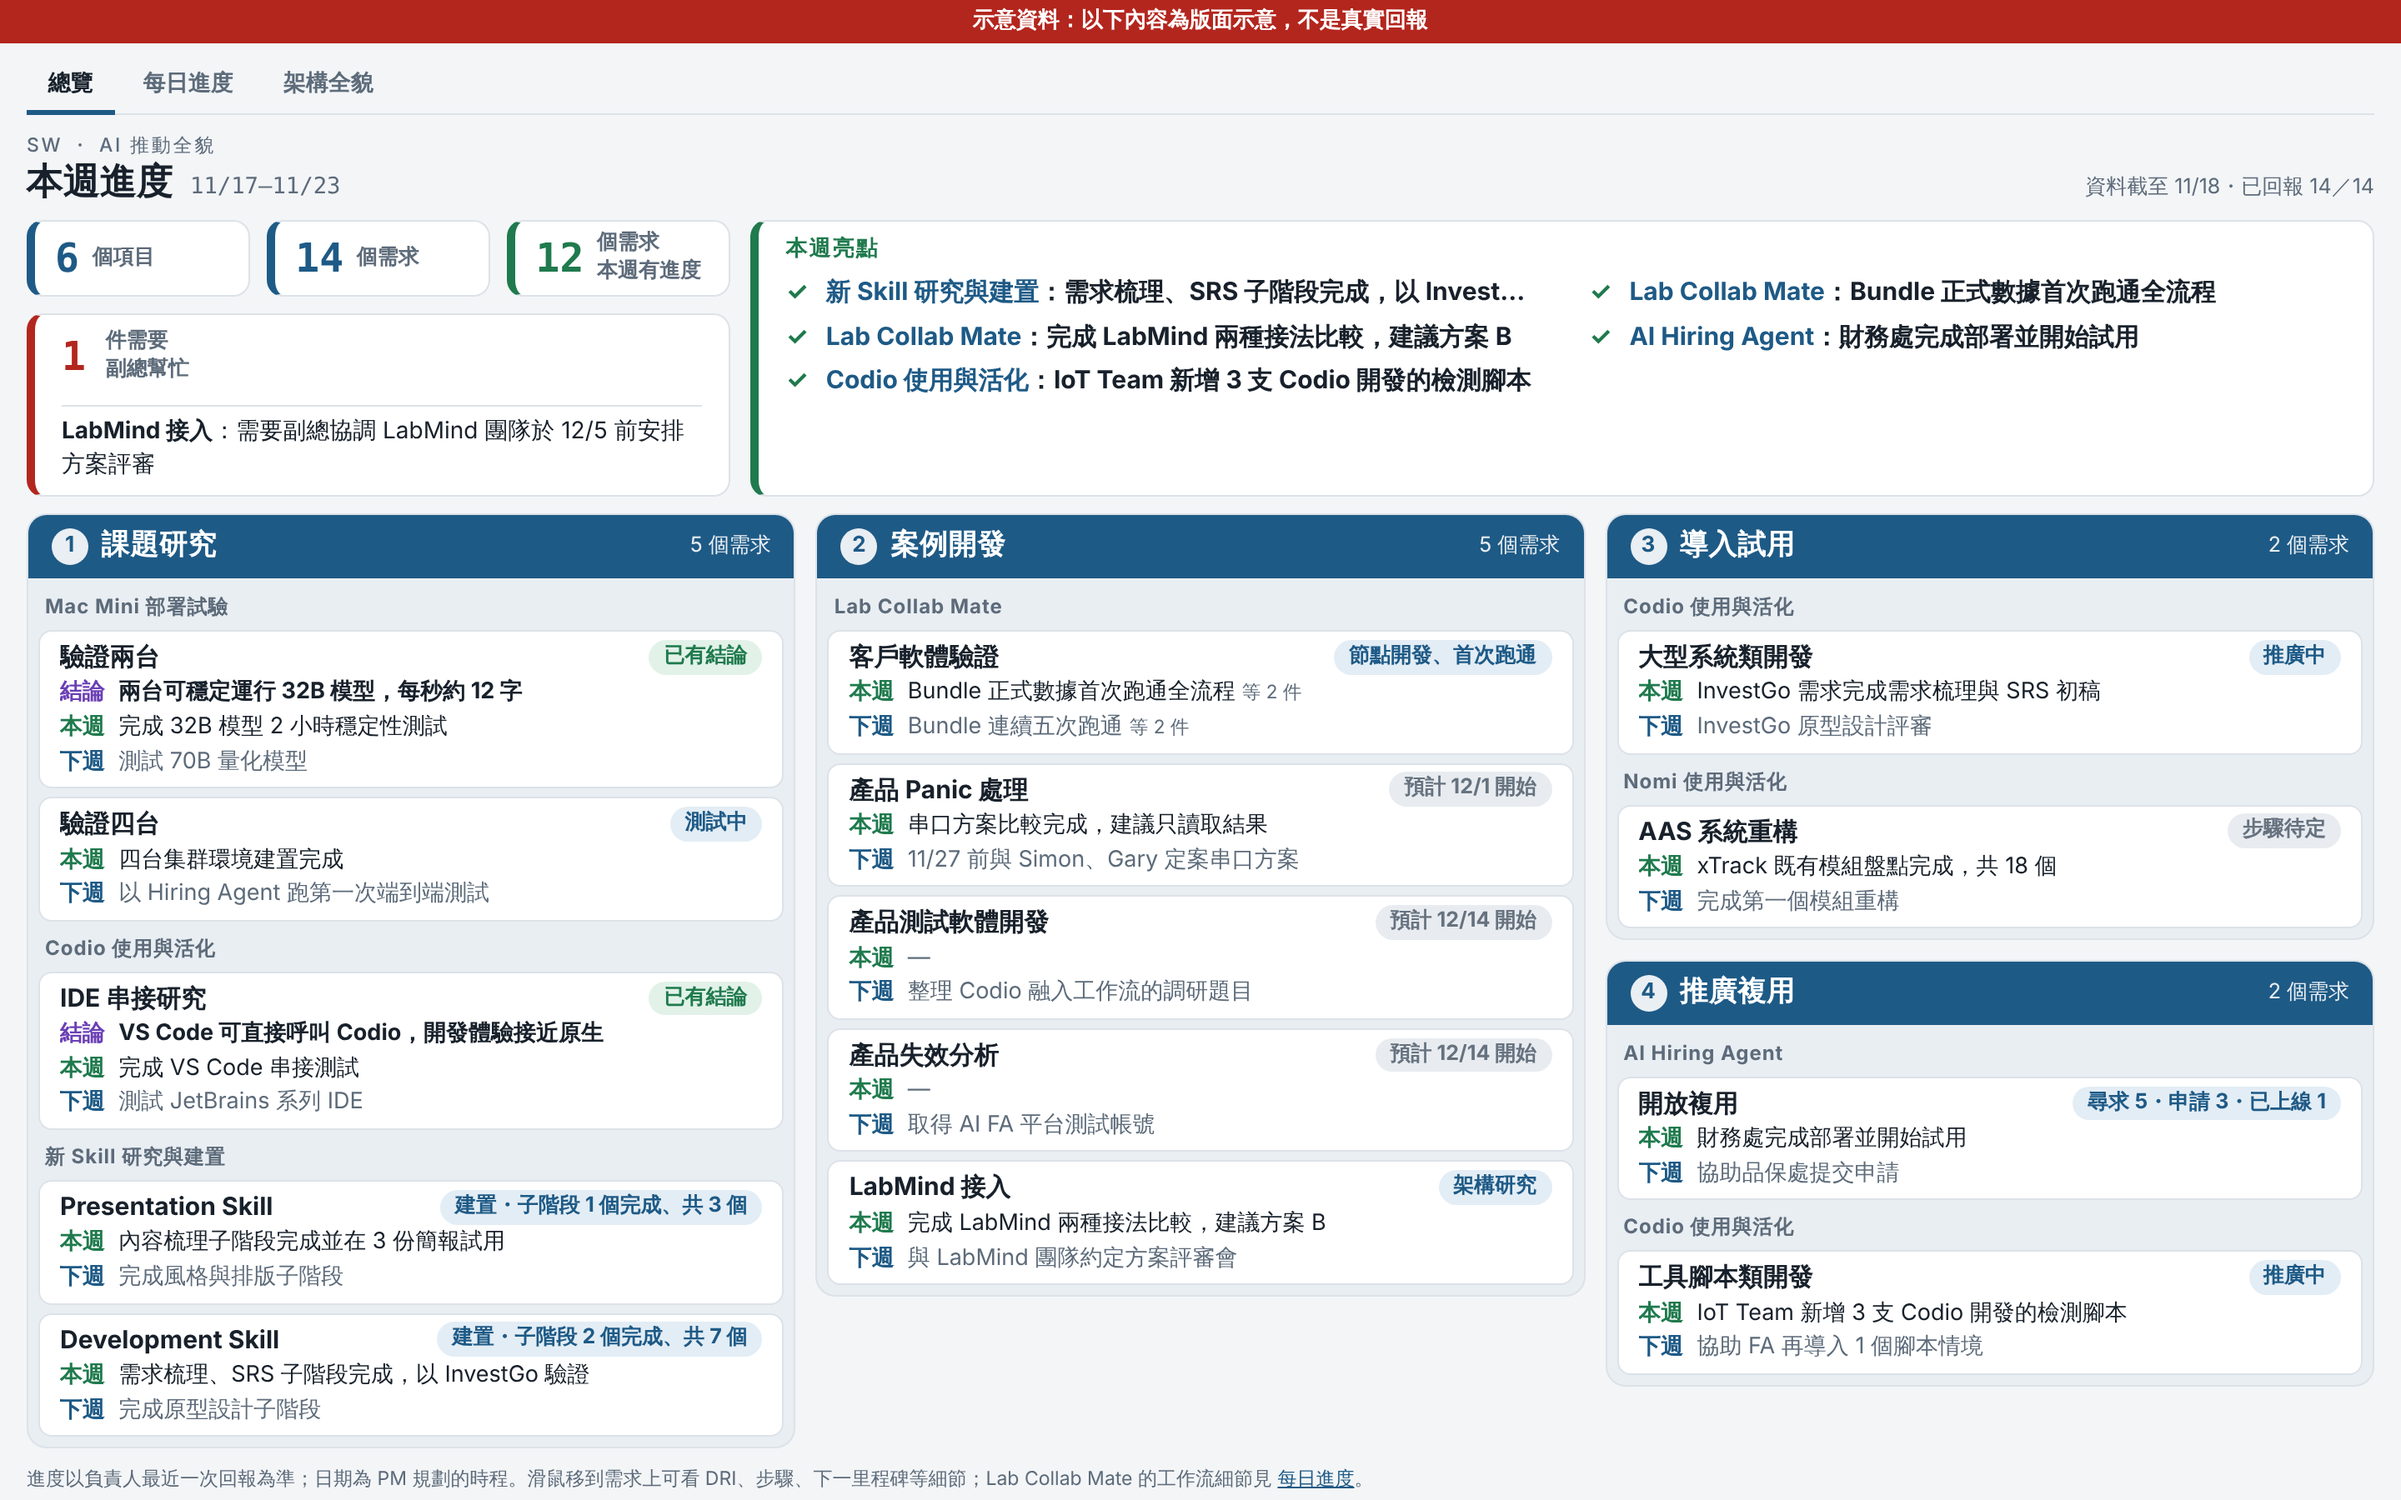
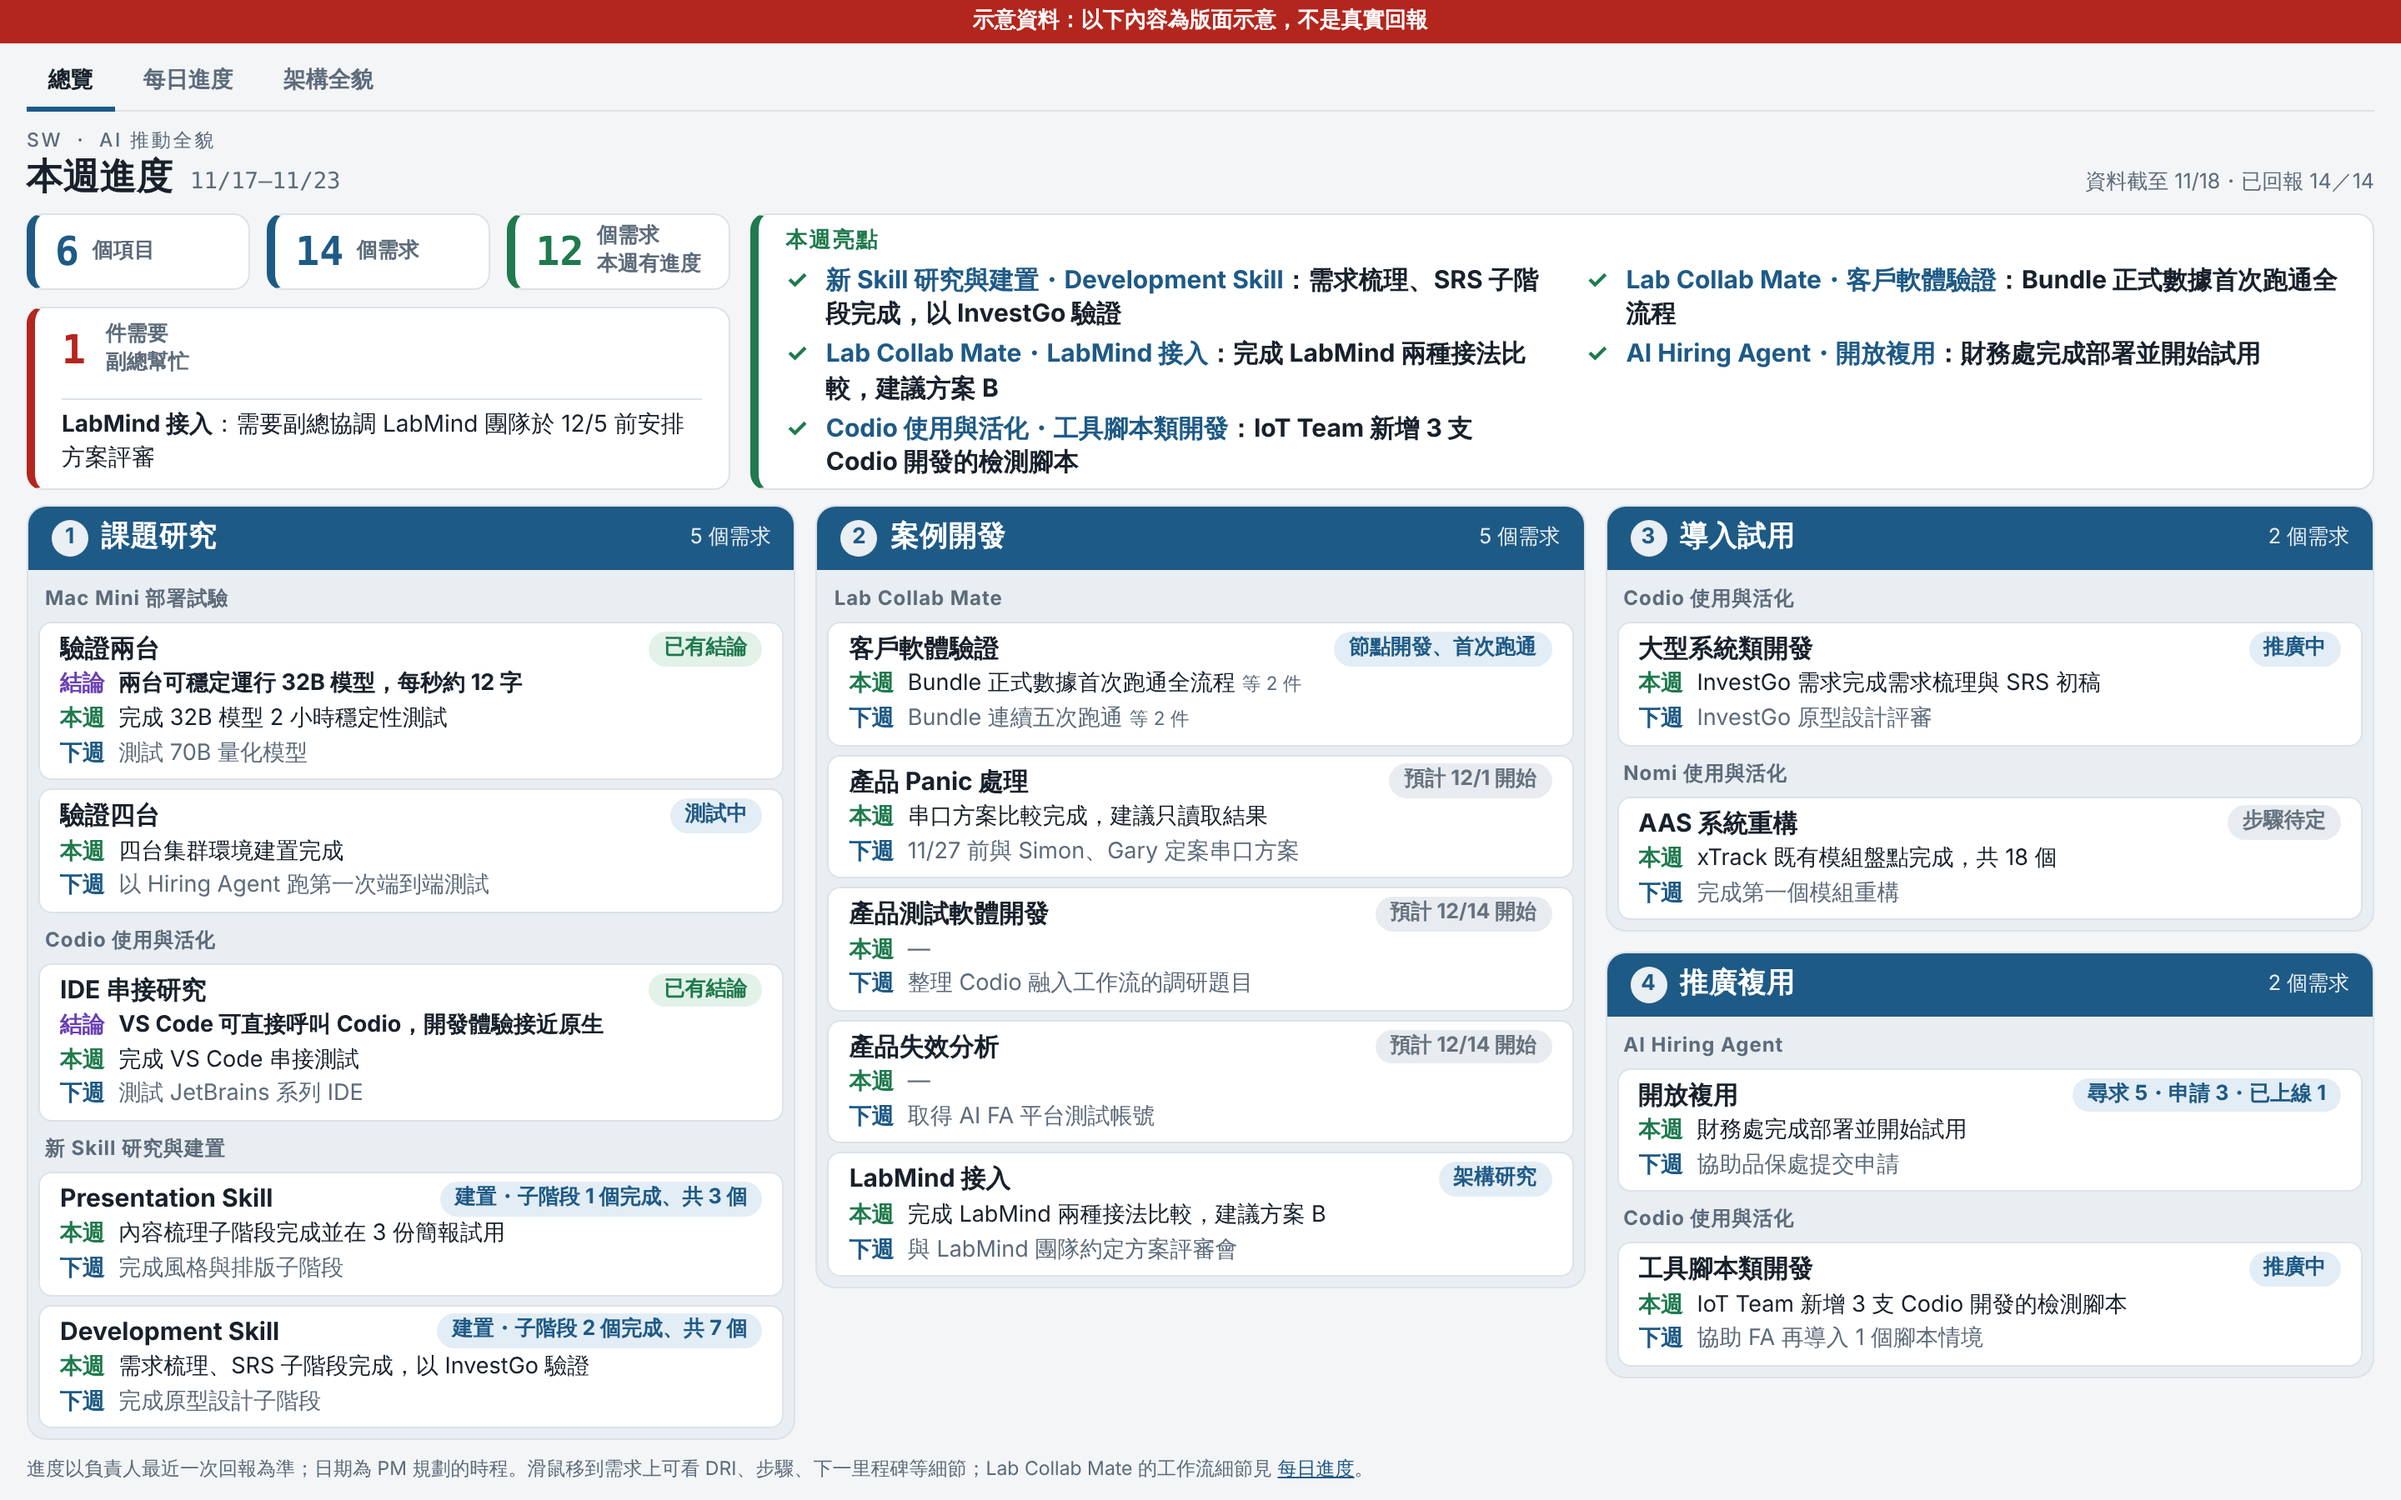
[2026-11-17_overview-redesign] 亮點寫明項目・需求並可換兩行；新增三種風格示意（簡報一頁式／現代卡片／深色）
Claude-Session: https://claude.ai/code/session_01Cd6Gft6mTX8zcMZinAmXya

diff --git a/public/index.html b/public/index.html
@@ -67,11 +67,11 @@ h1 .mono{font-family:var(--f-mono);font-size:.62em;color:var(--muted);font-weigh
 .kpi.help{grid-column:1 / -1;flex-wrap:wrap;row-gap:4px;align-content:flex-start;padding:8px 16px;gap:12px}
 .kpi.help .d{flex-basis:100%;font-size:14px;line-height:1.45;border-top:1px solid var(--line);padding-top:5px}
 
-/* 本週亮點：「項目名稱：進度亮點」一行一件 */
+/* 本週亮點：「項目・需求：進度亮點」，一行寫不完換第二行，不截斷 */
 .hl{background:var(--surface);border:1px solid var(--line);border-left:5px solid var(--ok);border-radius:10px;padding:9px 16px 10px;min-width:0}
 .hl h2{font-size:13px;letter-spacing:.08em;color:var(--ok);font-weight:700;margin-bottom:6px}
 .hl ul{list-style:none;margin:0;padding:0;display:grid;grid-template-columns:repeat(2,minmax(0,1fr));gap:8px 28px}
-.hl li{font-size:16px;font-weight:700;line-height:1.45;padding-left:24px;position:relative;white-space:nowrap;overflow:hidden;text-overflow:ellipsis}
+.hl li{font-size:16px;font-weight:700;line-height:1.45;padding-left:24px;position:relative}
 .hl li::before{content:"✓";position:absolute;left:0;color:var(--ok)}
 .hl li .p{color:var(--accent)}
 .hl .empty{font-size:14px;color:var(--muted)}
@@ -108,14 +108,15 @@ footer a{color:var(--accent)}
 
 /* 矮螢幕（如筆電 1440×900）再壓縮，維持單屏 */
 @media (min-width:901px) and (max-height:960px){
-  .page{gap:10px;padding-block:8px 10px}
+  .page{gap:9px;padding-block:6px 8px}
   h1{font-size:22px}
   .kpi{padding:5px 12px}
   .kpi > b{font-size:24px}
-  .hl{padding:7px 16px 8px}
+  .hl{padding:6px 16px 6px}
   .hl h2{margin-bottom:4px}
-  .hl li{font-size:15px}
-  .hl ul{gap:5px 28px}
+  .hl li{font-size:15px;line-height:1.35}
+  .hl ul{gap:4px 24px}
+  .hl h2{margin-bottom:3px}
   .board,.col{gap:12px}
   .mod > header{padding:6px 14px}
   .mbody{padding:6px;gap:5px}
@@ -127,7 +128,7 @@ footer a{color:var(--accent)}
 @media (max-width:760px){
   .board{grid-template-columns:1fr}
   .hl ul{grid-template-columns:1fr}
-  .hl li,.ln{white-space:normal}
+  .ln{white-space:normal}
 }
 </style>
 </head>
@@ -228,12 +229,12 @@ $("kpis").innerHTML =
   kpi(helps.length ? "--bad" : "--idle", helps.length, "件需要<br>副總幫忙",
       helps.length ? helps.map(r => `<div><b>${esc(r.name)}</b>：${esc(r.rep.help)}</div>`).join("") : `<div class="dim">本週沒有需要副總幫忙的事項</div>`, "help");
 
-/* 本週亮點：「項目名稱：進度亮點」。回報中標記 hl 的完成事項；沒標記時取各需求第一件，最多 6 件 */
+/* 本週亮點：「項目・需求：進度亮點」。回報中標記 hl 的完成事項；沒標記時取各需求第一件，最多 6 件 */
 let hls = reported.flatMap(r => (r.rep.hl || []).map(i => [r.rep.done[i], r]));
 if (!hls.length) hls = reported.filter(r => (r.rep.done || []).length).map(r => [r.rep.done[0], r]);
 hls = hls.slice(0, 6);
 $("hl").innerHTML = hls.length
-  ? `<ul>${hls.map(([t, r]) => `<li title="${esc(r.proj)}：${esc(t)}"><span class="p">${esc(r.proj)}</span>：${esc(t)}</li>`).join("")}</ul>`
+  ? `<ul>${hls.map(([t, r]) => `<li><span class="p">${esc(r.proj)}・${esc(r.name)}</span>：${esc(t)}</li>`).join("")}</ul>`
   : `<div class="empty">本週回報彙整中；負責人回覆後，這裡會列出本週最重要的完成事項。</div>`;
 
 /* 需求狀態標籤：一個詞說清楚現在在哪 */
@@ -280,7 +281,7 @@ function reqHTML(r){
 function modHTML(m){
   let html = "", proj = null;
   m.reqs.forEach(r => { if (r.proj !== proj) { proj = r.proj; html += `<h4 class="proj">${esc(proj)}</h4>`; } html += reqHTML(r); });
-  return `<section class="mod"><header><h3><span class="no">${m.no.replace(/[①②③④]/, c => "①②③④".indexOf(c) + 1)}</span>${esc(m.name)}</h3><span>${m.reqs.length} 個需求</span></header><div class="mbody">${html}</div></section>`;
+  return `<section class="mod" data-m="${MODULES.indexOf(m) + 1}"><header><h3><span class="no">${m.no.replace(/[①②③④]/, c => "①②③④".indexOf(c) + 1)}</span>${esc(m.name)}</h3><span>${m.reqs.length} 個需求</span></header><div class="mbody">${html}</div></section>`;
 }
 $("board").innerHTML = [0, 1, 2].map(c => `<div class="col">${MODULES.filter(m => m.col === c).map(modHTML).join("")}</div>`).join("");
 </script>

diff --git a/work/2026-11-17_overview-redesign/outputs/src/styles/a-report.css b/work/2026-11-17_overview-redesign/outputs/src/styles/a-report.css
@@ -1,0 +1,27 @@
+/* 風格 A｜簡報一頁式：白底、細線分隔、襯線標題，幾乎不用色塊，靠留白與字級分層 */
+:root{--bg:#FFFFFF;--panel:#FFFFFF;--line:#E3E6EA;--accent:#1B3A5C;--accent-soft:#EEF2F6}
+body{background:#FFFFFF}
+h1{font-size:28px}
+.kpi{background:none;border:0;border-left:1px solid var(--line);border-radius:0;padding:2px 14px}
+.kpi:first-child{border-left:0;padding-left:0}
+.kpi > b{font-family:var(--f-display);font-weight:700;color:var(--fg)}
+.kpi.help{border:0;border-top:1px solid var(--line);padding:6px 0 0;border-radius:0}
+.kpi.help > b{color:var(--bad)}
+.hl{border:0;border-left:3px solid var(--fg);border-radius:0;padding:2px 0 2px 18px;background:none}
+.hl h2{color:var(--fg);letter-spacing:.14em}
+.hl li::before{color:var(--fg)}
+.hl li .p{color:var(--accent)}
+.board{gap:28px}
+.col{gap:22px}
+.mod{background:none;border:0;border-radius:0;overflow:visible}
+.mod > header{background:none;color:var(--fg);padding:0 0 6px;border-bottom:2px solid var(--fg)}
+.mod h3{font-family:var(--f-display);font-size:19px}
+.mod h3 .no{background:var(--fg);color:#FFF;width:24px;height:24px}
+.mod > header span{color:var(--muted)}
+.mbody{padding:4px 0 0;gap:0}
+.proj{padding:8px 0 2px;color:var(--accent);letter-spacing:.06em}
+.req{background:none;border:0;border-radius:0;border-bottom:1px solid var(--line);padding:6px 0 7px}
+.pill{background:none;border:1px solid currentColor;padding:0 8px}
+.pill.idle{background:none}
+.pill.ok{background:none}
+@media (prefers-color-scheme: dark){:root:not([data-theme="light"]){--bg:#11161C;--panel:#11161C}body{background:#11161C}.mod h3 .no{color:#11161C}}

diff --git a/work/2026-11-17_overview-redesign/outputs/src/mock_overview.js b/work/2026-11-17_overview-redesign/outputs/src/mock_overview.js
@@ -4,7 +4,7 @@
 const { chromium } = require('playwright');
 const fs = require('fs');
 const path = require('path');
-const [root, out] = process.argv.slice(2);
+const [root, out, cssPath] = process.argv.slice(2);  // cssPath（選填）：風格示意用的覆寫樣式
 const src = fs.readFileSync(path.resolve(root, 'public', 'index.html'), 'utf8');
 
 const SAMPLE = {
@@ -32,11 +32,12 @@ MODULES.forEach(p => p.reqs.forEach(r => { if (__S[r.name]) r.rep = __S[r.name];
 const banner = '<div style="background:#B3261E;color:#fff;font-weight:700;text-align:center;font-size:13px;padding:3px 0">示意資料：以下內容為版面示意，不是真實回報</div>';
 const html = src.replace('/* ===== 計算與呈現 ===== */', inject).replace('<div class="page">', banner + '<div class="page">');
 if (!html.includes('示意資料：')) throw new Error('示意橫條沒有插入成功');
+const styled = cssPath ? html.replace('</style>', fs.readFileSync(cssPath, 'utf8') + '\n</style>') : html;
 
 (async () => {
   const b = await chromium.launch();
   const p = await b.newPage({ viewport: { width: 1440, height: 900 }, deviceScaleFactor: 2 });
-  await p.setContent(html);
+  await p.setContent(styled);
   await p.waitForTimeout(300);
   const sh = await p.evaluate(() => document.documentElement.scrollHeight);
   console.log(`示意版 1440x900 scrollHeight=${sh}（含示意橫條 約 25px）`);

diff --git a/work/2026-11-17_overview-redesign/outputs/src/styles/b-cards.css b/work/2026-11-17_overview-redesign/outputs/src/styles/b-cards.css
@@ -1,0 +1,22 @@
+/* 風格 B｜現代卡片：淺陰影、圓角，四個模塊各有自己的顏色 */
+:root{--bg:#F4F5F9;--panel:#FFFFFF;--line:#E8EAF0;
+  --m1:#6D4AE8;--m1s:#F0ECFD;--m2:#2563EB;--m2s:#E8F0FE;--m3:#0E8A84;--m3s:#E3F5F3;--m4:#C2410C;--m4s:#FDEEE6}
+body{background:var(--bg)}
+.kpi,.hl{border:0;box-shadow:0 1px 3px rgba(20,30,60,.08),0 4px 14px rgba(20,30,60,.05);border-radius:14px}
+.kpi{border-left:0;border-top:4px solid var(--c)}
+.hl{border-left:0;border-top:4px solid var(--ok)}
+.board{gap:18px}
+.col{gap:18px}
+.mod{border:0;border-radius:16px;box-shadow:0 1px 3px rgba(20,30,60,.08),0 6px 18px rgba(20,30,60,.06)}
+.mod > header{background:var(--mc);color:#FFF}
+.mod h3 .no{color:var(--mc)}
+.mod[data-m="1"]{--mc:var(--m1);--ms:var(--m1s)}
+.mod[data-m="2"]{--mc:var(--m2);--ms:var(--m2s)}
+.mod[data-m="3"]{--mc:var(--m3);--ms:var(--m3s)}
+.mod[data-m="4"]{--mc:var(--m4);--ms:var(--m4s)}
+.mbody{background:var(--ms);padding:10px;gap:8px}
+.proj{color:var(--mc)}
+.req{border:0;border-radius:10px;box-shadow:0 1px 2px rgba(20,30,60,.06)}
+.pill{color:var(--mc);background:var(--ms)}
+.pill.idle{color:var(--idle);background:var(--idle-soft)}
+.hl li .p{color:var(--m2)}

diff --git a/work/2026-11-17_overview-redesign/outputs/src/styles/c-dark.css b/work/2026-11-17_overview-redesign/outputs/src/styles/c-dark.css
@@ -1,0 +1,13 @@
+/* 風格 C｜深色主題：深藍底、亮色字，適合投影到大螢幕 */
+:root{color-scheme:dark;
+  --bg:#0E1622;--surface:#16212F;--panel:#121C29;--fg:#E8EEF5;--muted:#93A3B5;--line:#253447;--seg:#2C3D52;
+  --accent:#5CC8FF;--accent-soft:#16344A;--on-accent:#0E1622;
+  --ok:#4ADE80;--ok-soft:#123326;--bad:#FF7A70;--bad-soft:#3A1A1A;--idle:#A3B0BD;--idle-soft:#223042;--new:#C4A5FF;--new-soft:#2C2445}
+body{background:radial-gradient(1200px 600px at 20% -10%,#17304A 0%,var(--bg) 60%)}
+.kpi,.hl,.mod,.req{border-color:var(--line)}
+.kpi > b{text-shadow:0 0 18px color-mix(in srgb,var(--c) 45%,transparent)}
+.mod > header{background:linear-gradient(90deg,#1B4A6B,#163A55);color:var(--fg)}
+.mod h3{color:var(--fg)}
+.mod h3 .no{background:var(--accent);color:var(--on-accent)}
+.req{background:var(--surface)}
+.hl li .p{color:var(--accent)}
